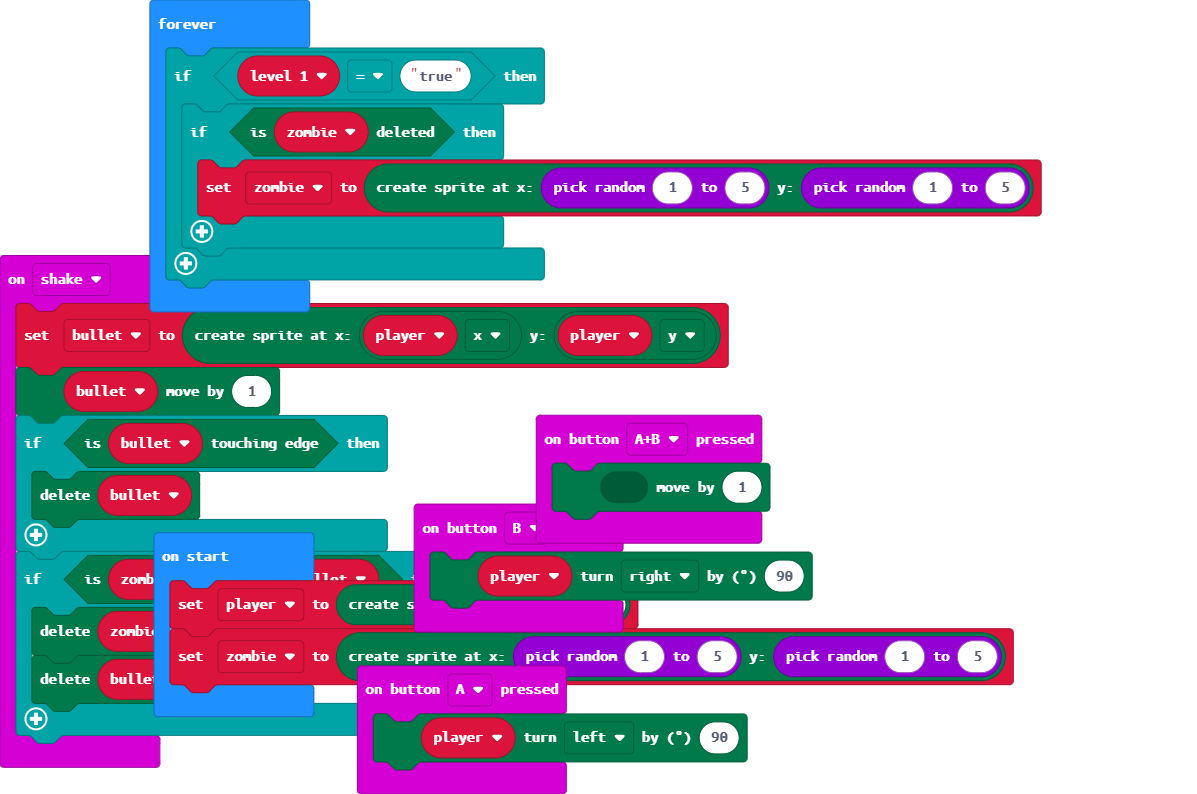
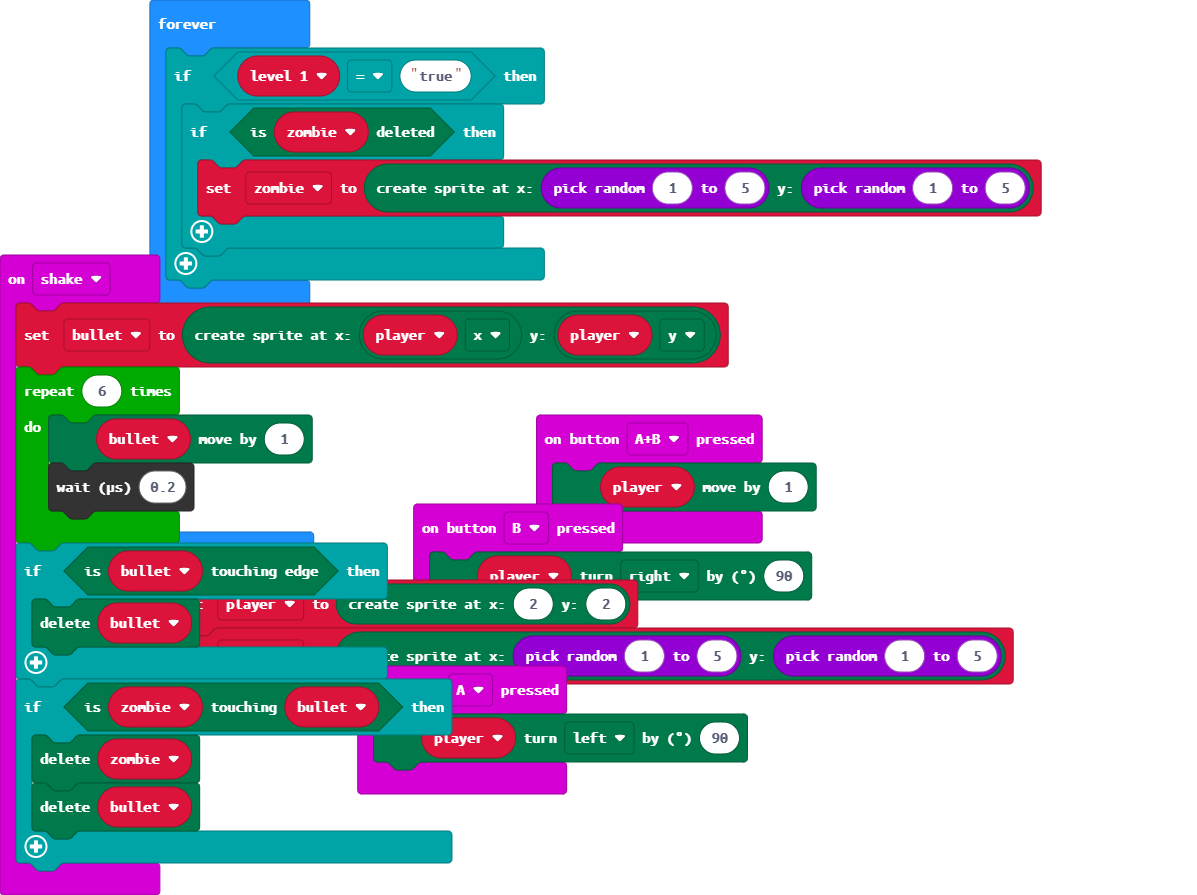
I think it works not sure

diff --git a/main.ts b/main.ts
@@ -9,7 +9,10 @@ input.onButtonPressed(Button.B, function () {
 })
 input.onGesture(Gesture.Shake, function () {
     bullet = game.createSprite(player.get(LedSpriteProperty.X), player.get(LedSpriteProperty.Y))
-    bullet.move(1)
+    for (let index = 0; index < 6; index++) {
+        bullet.move(1)
+        control.waitMicros(0.2)
+    }
     if (bullet.isTouchingEdge()) {
         bullet.delete()
     }
